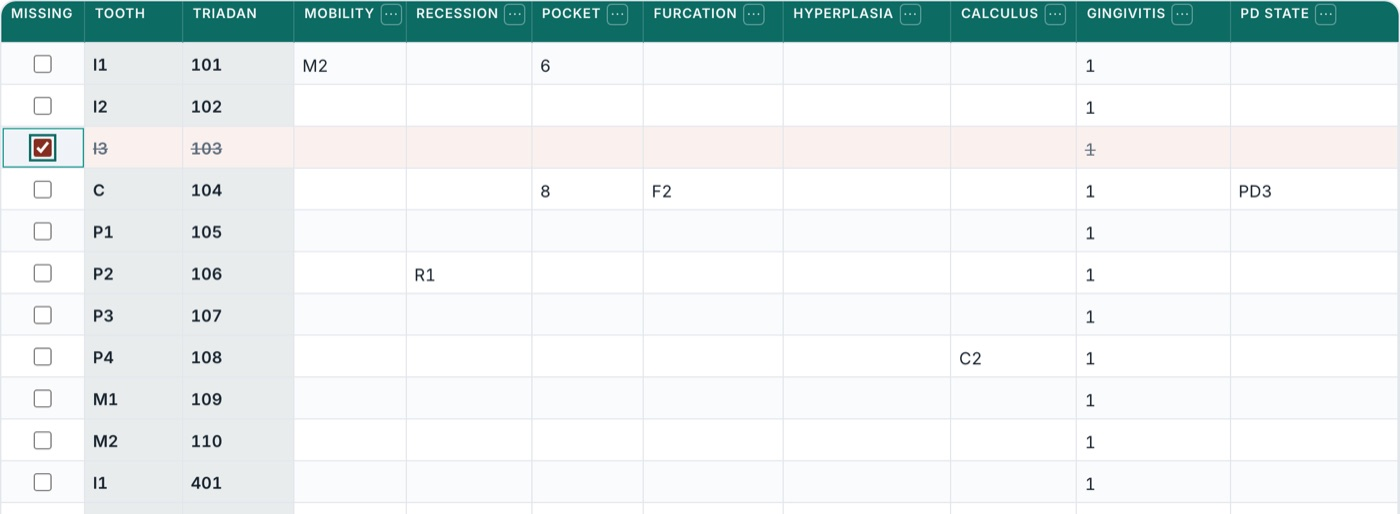
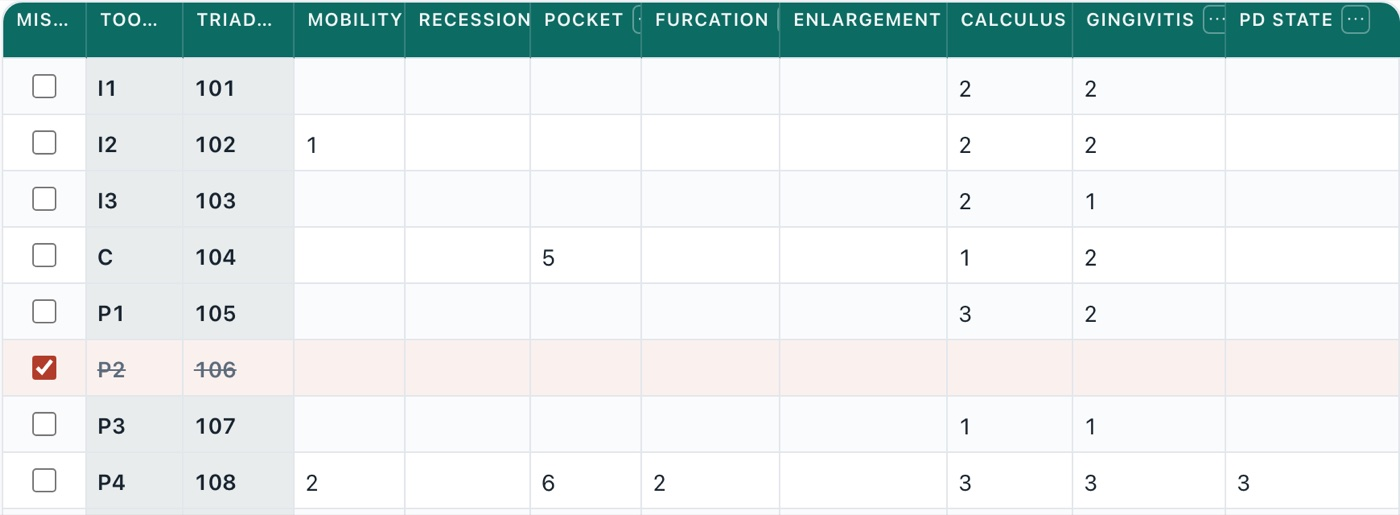
Free beta: AI dictation for every account, 10 images; homepage refresh
Plans
- Every signed-in account gets AI voice autofill (free plan included);
  free accounts get 10 images per chart. ai-autofill and deepgram-token
  no longer require Pro — signed-in only; usage still logged per user.
- The no-account trial never shows AI (it can't authenticate).

Homepage
- "Free beta" pill; CTA note "Free during the beta · AI dictation
  included · no card required"; voice feature tagged "AI · Free beta"
  with the review/earpiece-prompt point.
- Fresh screenshots (grid with bare numbers, diagram with code-only
  notes, PDF with fitted cards) and updated alt text.

Fixes found while taking the screenshots
- Diagram auto-focus grabbed every comment on load and every AI-added
  note (stealing the caret, scrolling to a hidden diagram, leaving the
  focused card un-fitted and clipped). Only a blank comment the user
  just created is focused now.
- One-letter AVDC codes (B, F, R, X) only count in "Codes Used" when
  they stand alone — "R maxillary" (right) no longer adds Restoration.
- AI panel on phones: transcript no longer squeezed away under a review
  card, footer fits on one line ("Help", "Prompts: On"), sheet grows a
  little when there's something to review, logs stay pinned to the
  newest entry when the box resizes.

diff --git a/src/components/VoiceInputButton.tsx b/src/components/VoiceInputButton.tsx
@@ -179,6 +179,17 @@ function useStickToBottom<T extends HTMLElement>(dep: unknown) {
     const el = ref.current;
     if (el && stick.current) el.scrollTop = el.scrollHeight;
   }, [dep]);
+  // The box also changes height (a review card appears, the sheet
+  // expands): keep it pinned through that too.
+  React.useEffect(() => {
+    const el = ref.current;
+    if (!el || typeof ResizeObserver === 'undefined') return;
+    const ro = new ResizeObserver(() => {
+      if (stick.current) el.scrollTop = el.scrollHeight;
+    });
+    ro.observe(el);
+    return () => ro.disconnect();
+  });
   return { ref, onScroll };
 }
 
@@ -682,7 +693,7 @@ export const VoiceInputButton: React.FC<VoiceInputButtonProps> = ({
           reason as the modal above. */}
       {panelOpen && ReactDOM.createPortal(
         <aside
-          className={`ai-sidebar${collapsed ? ' ai-sidebar--collapsed' : ''}${voice.recording ? ' ai-sidebar--live' : ''}`}
+          className={`ai-sidebar${collapsed ? ' ai-sidebar--collapsed' : ''}${voice.recording ? ' ai-sidebar--live' : ''}${reviews.length ? ' ai-sidebar--has-review' : ''}`}
           aria-label="AI autofill"
         >
           <header className="ai-sidebar__head">
@@ -788,7 +799,7 @@ export const VoiceInputButton: React.FC<VoiceInputButtonProps> = ({
               <footer className="ai-sidebar__foot">
                 <button type="button" className="ai-sidebar__link" onClick={startOver} disabled={!hasSession}>New</button>
                 <button type="button" className="ai-sidebar__link" onClick={handleDownloadTranscript} disabled={!transcriptText}>Download</button>
-                <button type="button" className="ai-sidebar__link" onClick={() => setIntro('info')}>How it works</button>
+                <button type="button" className="ai-sidebar__link" onClick={() => setIntro('info')} title="How it works">Help</button>
                 {speechAvailable() && (
                   <button
                     type="button"
@@ -797,7 +808,7 @@ export const VoiceInputButton: React.FC<VoiceInputButtonProps> = ({
                     aria-pressed={voicePrompts}
                     title="Short spoken prompts (e.g. “Check 109”) after a pause, for things worth checking"
                   >
-                    Voice prompts: {voicePrompts ? 'On' : 'Off'}
+                    Prompts: {voicePrompts ? 'On' : 'Off'}
                   </button>
                 )}
                 <span className="voice-input__provider-badge">{voice.provider === 'deepgram' ? '⚡ Deepgram' : 'Browser STT'}</span>

diff --git a/src/components/LandingFeatures.tsx b/src/components/LandingFeatures.tsx
@@ -45,12 +45,12 @@ const FEATURES: LandingFeature[] = [
     ],
     image: '/screenshots/feat-grid.jpg',
     imageAlt:
-      'The charting grid with probing depths, furcation and mobility grades entered, and tooth 103 crossed out as missing',
+      'The charting grid with gingivitis, calculus, pocket, furcation and mobility values entered, and tooth 106 crossed out as missing',
   },
   {
     id: 'voice',
     title: 'AI voice autofill, built in',
-    tag: 'AI · Pro',
+    tag: 'AI · Free beta',
     blurb:
       'Say “104 complicated crown fracture” and it lands on the tooth — transcribed and charted while your hands stay on the patient.',
     lead:
@@ -60,7 +60,8 @@ const FEATURES: LandingFeature[] = [
       'Findings land as structured chart entries — grid values, tooth marks, anchored comments — not a wall of text.',
       'A live transcript sidebar shows every action as it happens; each one highlights the tooth it touched.',
       'Everything the AI writes goes through the same undo system as your own edits.',
-      'No API keys and no setup — it’s part of Pro.',
+      'Not sure it heard you right? It flags the finding and, after a pause, says “Check 109” in your ear — never over you.',
+      'No API keys and no setup — free during the beta.',
     ],
     voiceMock: true,
   },
@@ -81,7 +82,7 @@ const FEATURES: LandingFeature[] = [
     ],
     image: '/screenshots/feat-diagram.jpg',
     imageAlt:
-      'The Diagnosis diagram with missing teeth filled in and a comment anchored to premolar 105 reading “CCF — extract”',
+      'The Diagnosis diagram with missing teeth filled in and AVDC codes — T/FX, T/FX/CCF, TR, AB, AT — anchored to each tooth',
   },
   {
     id: 'avdc',

diff --git a/src/components/ToothDiagram.tsx b/src/components/ToothDiagram.tsx
@@ -683,16 +683,20 @@ export const ToothDiagram = React.forwardRef<ToothDiagramHandle, ToothDiagramPro
     onCommentsChange(comments.filter((c) => c.id !== id));
   };
 
-  // Auto-focus the textarea of a freshly-added comment so the user can
-  // just start typing. The textareas live in the HTML overlay (sibling of
-  // the SVG, not inside it), so we search the wrapper element.
-  const knownCommentIdsRef = React.useRef<Set<string>>(new Set());
+  // Auto-focus the textarea of a comment the user just added (the comment
+  // tool creates it empty) so they can start typing. Comments that arrive
+  // with text — loaded with the chart, mirrored from the grid, added by
+  // voice autofill — must not grab focus: that stole the caret, scrolled
+  // the page to a hidden diagram, and left the focused card un-fitted.
+  // The textareas live in the HTML overlay (sibling of the SVG, not inside
+  // it), so we search the wrapper element.
+  const knownCommentIdsRef = React.useRef<Set<string>>(new Set(comments.map((c) => c.id)));
   React.useEffect(() => {
     const previous = knownCommentIdsRef.current;
     const current = new Set<string>();
     comments.forEach((c) => {
       current.add(c.id);
-      if (!previous.has(c.id)) {
+      if (!previous.has(c.id) && !c.text) {
         // Defer one frame so the new textarea is in the DOM before we
         // try to focus it.
         requestAnimationFrame(() => {

diff --git a/supabase/functions/ai-autofill/index.ts b/supabase/functions/ai-autofill/index.ts
@@ -2,7 +2,7 @@
 // messages) and this function forwards it to Anthropic using the baked-in
 // server key, so no key ever ships to the client. verify_jwt on.
 //
-// Gated to Pro practices (server-side). The model is chosen site-wide in
+// Open to every signed-in account during the free beta. The model is chosen site-wide in
 // the admin panel (app_config.ai_model), not by the client. Every call's
 // token usage is logged to ai_usage for the admin dashboard.
 //
@@ -54,15 +54,10 @@ Deno.serve(async (req: Request) => {
   const caller = callerData?.user;
   if (!caller) return json({ error: 'unauthorized' }, 401);
 
-  // AI autofill is a Pro-plan feature — enforce server-side.
+  // Free beta: open to every signed-in account (no plan check). The
+  // practice is still looked up so usage is attributed in ai_usage.
   const { data: prof } = await admin.from('profiles').select('practice_id').eq('id', caller.id).maybeSingle();
   const practiceId = prof?.practice_id ?? null;
-  let plan = 'basic';
-  if (practiceId) {
-    const { data: prac } = await admin.from('practices').select('plan').eq('id', practiceId).maybeSingle();
-    plan = prac?.plan ?? 'basic';
-  }
-  if (plan !== 'pro') return json({ error: 'AI autofill is a Pro-plan feature.' }, 403);
 
   const key = Deno.env.get('ANTHROPIC_API_KEY');
   if (!key) return json({ error: 'AI is not configured yet.' }, 503);

diff --git a/src/components/Landing.tsx b/src/components/Landing.tsx
@@ -120,7 +120,10 @@ export const Landing: React.FC<LandingProps> = ({
         {/* ------------------------------------------------------- hero --- */}
         <section className="landing__hero">
           <div className="landing__hero-copy">
-            <p className="landing__eyebrow">AI-native veterinary dental charting</p>
+            <p className="landing__eyebrow">
+              AI-native veterinary dental charting
+              {!PAID_SIGNUP && <span className="landing__beta-pill">Free beta</span>}
+            </p>
             <h1 className="landing__headline">
               Just talk.
               <br />
@@ -151,8 +154,8 @@ export const Landing: React.FC<LandingProps> = ({
                   <span className="landing__cta-note">
                     {PAID_SIGNUP
                       ? (PRICING_PUBLIC ? `Plans from $20/mo · ${TRIAL_DAYS}-day free trial · cancel anytime` : `${TRIAL_DAYS}-day free trial · cancel anytime`)
-                      : 'Free plan · no card required'}
-                    {onTryFree ? ' · no-account trial PDFs are stamped TRIAL' : ''}
+                      : 'Free during the beta · AI dictation included · no card required'}
+                    {onTryFree ? ' · the no-account trial skips AI dictation and stamps PDFs TRIAL' : ''}
                   </span>
                 </>
               ) : (

diff --git a/supabase/functions/deepgram-token/index.ts b/supabase/functions/deepgram-token/index.ts
@@ -1,6 +1,6 @@
 // Deepgram ephemeral key minter. The browser needs a key to open the
 // streaming WebSocket, but must never hold the master key — so this
-// function (verify_jwt on, Pro-gated) uses the baked-in master to create
+// function (verify_jwt on, any signed-in account) uses the baked-in master to create
 // a short-lived, usage-scoped key and returns just that.
 //
 // Requires the DEEPGRAM_API_KEY edge-function secret (dashboard).
@@ -27,14 +27,8 @@ Deno.serve(async (req: Request) => {
   const caller = callerData?.user;
   if (!caller) return json({ error: 'unauthorized' }, 401);
 
-  // Voice autofill is Pro-only.
-  const { data: prof } = await admin.from('profiles').select('practice_id').eq('id', caller.id).maybeSingle();
-  let plan = 'basic';
-  if (prof?.practice_id) {
-    const { data: prac } = await admin.from('practices').select('plan').eq('id', prof.practice_id).maybeSingle();
-    plan = prac?.plan ?? 'basic';
-  }
-  if (plan !== 'pro') return json({ error: 'Voice autofill is a Pro-plan feature.' }, 403);
+  // Free beta: voice autofill is open to every signed-in account (no
+  // plan check). Signed-in only — anonymous trial users get no token.
 
   const master = Deno.env.get('DEEPGRAM_API_KEY');
   if (!master) return json({ error: 'Voice transcription is not configured yet.' }, 503);

diff --git a/src/components/EntryGrid.css b/src/components/EntryGrid.css
@@ -525,6 +525,9 @@
   line-height: 1.45;
   color: var(--text);
   max-height: 28vh;
+  /* Never squeezed away when the review list is long. */
+  flex: 0 0 auto;
+  min-height: 3.2em;
   overflow-y: auto;
   overscroll-behavior: contain;
   white-space: pre-wrap;
@@ -560,6 +563,7 @@
 .ai-sidebar__foot {
   display: flex;
   align-items: center;
+  flex-wrap: wrap;
   gap: 0.1rem;
   padding: 0.3rem 0.5rem;
   border-top: 1px solid var(--border, #e2e8f0);
@@ -3098,5 +3102,13 @@ button.save-status--manual:hover {
 .ai-sidebar__row-flag { font-weight: 700; color: #d97706; }
 @media (max-width: 700px) {
   .ai-review__opt { min-height: 44px; font-size: 0.92rem; }
-  .ai-review__list { max-height: 26dvh; }
+  .ai-review__list { max-height: 22dvh; }
+  .ai-review { flex: 0 0 auto; }
+  .ai-sidebar__transcript { max-height: 10dvh; }
+  .ai-sidebar__activity { min-height: 3rem; flex: 1 1 0; }
+  .ai-sidebar__foot { flex: none; }
+  /* Room for the review card without pushing the footer off. */
+  .ai-sidebar--has-review { max-height: 64dvh; }
+  .ai-sidebar__foot { flex-wrap: nowrap; padding: 0.15rem 0.35rem; }
+  .ai-sidebar__link { padding: 0 0.5rem; }
 }

diff --git a/src/EntryGrid.tsx b/src/EntryGrid.tsx
@@ -973,10 +973,10 @@ const EntryGrid: React.FC<EntryGridProps> = ({
               My charts
             </button>
           )}
-          {/* AI autofill is a Pro-plan feature; the keys live server-side
+          {/* AI autofill (every signed-in plan during the beta); the keys live server-side
               behind JWT-gated edge functions, so trial (no account) and
               Basic practices don't get it. */}
-          {profile.aiEnabled && (
+          {profile.aiEnabled && !trial && (
             <VoiceInputButton
               context={aiContext}
               handlers={aiHandlers}
@@ -1202,7 +1202,7 @@ const EntryGrid: React.FC<EntryGridProps> = ({
       <WalkthroughModal
         open={walkthroughOpen}
         onClose={() => setWalkthroughOpen(false)}
-        aiEnabled={profile.aiEnabled}
+        aiEnabled={profile.aiEnabled && !trial}
         onNavigate={setActiveSection}
       />
 

diff --git a/src/hooks/useProfile.ts b/src/hooks/useProfile.ts
@@ -19,11 +19,13 @@ export type PracticePlan = 'free' | 'basic' | 'pro';
 
 /** Per-plan limits. Central so the whole app agrees; when a tenant needs
  *  a custom cap these become columns on `practices`. 'free' is the
- *  unpaid tier (single user, no image uploads) — any account without a
- *  live/comped subscription resolves to it. */
+ *  unpaid tier — any account without a live/comped subscription resolves
+ *  to it. During the free beta every account gets AI voice autofill
+ *  (usage is logged per user in ai_usage) and free accounts get 10
+ *  images per chart. */
 export const PLAN_LIMITS: Record<PracticePlan, { maxImages: number; aiAutofill: boolean }> = {
-  free: { maxImages: 0, aiAutofill: false },
-  basic: { maxImages: 30, aiAutofill: false },
+  free: { maxImages: 10, aiAutofill: true },
+  basic: { maxImages: 30, aiAutofill: true },
   pro: { maxImages: 100, aiAutofill: true },
 };
 

diff --git a/src/constants/dentalCodes.ts b/src/constants/dentalCodes.ts
@@ -498,7 +498,16 @@ export function findCodesInText(text: string): DentalCode[] {
   // A "code char" is a letter, digit, slash, or asterisk — i.e. any
   // character that can appear inside a code like *SE or T/FX.
   const codeCharRe = /[A-Za-z0-9/*]/;
+  // One-letter codes (B, F, R, X) double as everyday abbreviations — "R
+  // maxillary" means right, not a restoration — so they only count when
+  // they stand alone as an entry: the whole note, or one item of a
+  // comma/semicolon/line-separated list.
+  const segments = new Set(text.split(/[\n,;]+/).map((seg) => seg.trim()));
   for (const c of DENTAL_CODES_BY_LENGTH) {
+    if (c.code.length === 1) {
+      if (segments.has(c.code)) found.add(c.code);
+      continue;
+    }
     const lc = text;
     let from = 0;
     while (from <= lc.length - c.code.length) {

diff --git a/src/utils/aiAutofill.test.ts b/src/utils/aiAutofill.test.ts
@@ -170,3 +170,12 @@ describe('score run into the next tooth number', () => {
     expect(normalizeTranscript('101GI2, calc 2102GI2, calc 2.')).toContain('calc 2 102 GI 2');
   });
 });
+
+import { findCodesInText } from '../constants/dentalCodes';
+describe('findCodesInText — one-letter codes', () => {
+  it('ignores R/L/B/X used as words, counts them standing alone', () => {
+    expect(findCodesInText('Mild ulceration R maxillary buccal mucosa').map((c) => c.code)).not.toContain('R');
+    expect(findCodesInText('R').map((c) => c.code)).toContain('R');
+    expect(findCodesInText('T/FX, X').map((c) => c.code)).toEqual(expect.arrayContaining(['T/FX', 'X']));
+  });
+});

diff --git a/src/constants/plans.ts b/src/constants/plans.ts
@@ -38,7 +38,7 @@ export const TRIAL_DAYS = 14;
 export const PRICING_PUBLIC = false;
 
 /** Feature flag: paid signup. While false, new accounts land on the FREE
- *  plan (single user, no image uploads) — signup hides the plan pickers
+ *  plan (single user, AI dictation, 10 images per chart) — signup hides the plan pickers
  *  and the BillingGate lets never-subscribed accounts straight in. All
  *  the Stripe machinery (checkout, webhook, portal, freeze/purge) stays
  *  live for existing subscriptions; flip to true to resume selling. */
